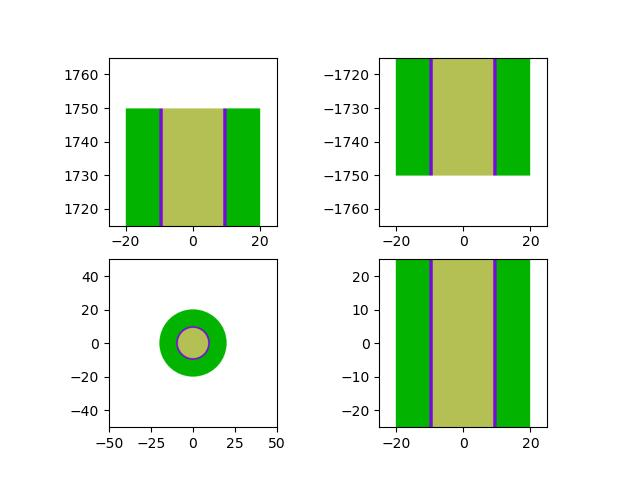
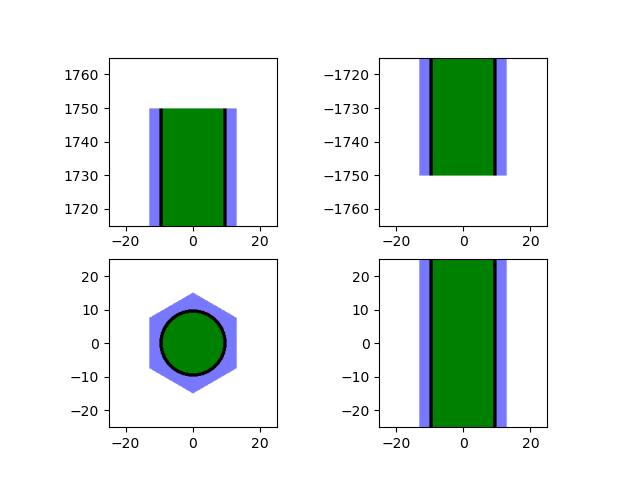
plotting

diff --git a/main.py b/main.py
@@ -5,52 +5,74 @@ openmc.config['cross_sections'] = '/home/main/cross_section_libs/jeff32/jeff-3.3
 import matplotlib.pyplot as plt
 import neutronics_material_maker as nmm
 
-#Materials
+# Materials
 fuel_mat = nmm.Material.from_library(name='Uranium Oxide').openmc_material
 water_mat = nmm.Material.from_library(name='Water, Liquid').openmc_material
 cladding_mat = nmm.Material.from_library(name='Zircaloy-2').openmc_material
-materials = openmc.Materials([fuel_mat,water_mat,cladding_mat])
+materials = openmc.Materials([fuel_mat, water_mat, cladding_mat])
 
 cladding_surf = openmc.ZCylinder(r=10)
 fuel_surf = openmc.ZCylinder(r=9)
-water_surf = openmc.ZCylinder(r=20)
-top_surf = openmc.ZPlane(z0=3500/2)
-bottom_surf = openmc.ZPlane(z0=-3500/2)
+water_surf = openmc.hexagonal_prism(orientation='y', edge_length=15)
 
-top_surf.boundary_type='vacuum'
-bottom_surf.boundary_type='vacuum'
-water_surf.boundary_type='vacuum'
+top_surf = openmc.ZPlane(z0=3500 / 2)
+bottom_surf = openmc.ZPlane(z0=-3500 / 2)
 
-#Geometry
-fuel_cell = openmc.Cell(fill=fuel_mat, region=-fuel_surf&+bottom_surf&-top_surf)
-cladding_cell = openmc.Cell(fill=cladding_mat, region=+fuel_surf & -cladding_surf&+bottom_surf&-top_surf)
-water_cell = openmc.Cell(fill=fuel_mat, region=+cladding_surf & -water_surf& +bottom_surf&-top_surf)
-outside_cell = openmc.Cell(region=+water_surf&+top_surf&-bottom_surf)
+top_surf.boundary_type = 'vacuum'
+bottom_surf.boundary_type = 'vacuum'
+water_surf.boundary_type = 'transmission'
+
+# Geometry
+fuel_cell = openmc.Cell(fill=fuel_mat, region=-fuel_surf & +bottom_surf & -top_surf)
+cladding_cell = openmc.Cell(fill=cladding_mat, region=+fuel_surf & -cladding_surf & +bottom_surf & -top_surf)
+water_cell = openmc.Cell(fill=water_mat, region=+cladding_surf & water_surf & +bottom_surf & -top_surf)
+outside_cell = openmc.Cell(region=water_surf & +top_surf & -bottom_surf)
 
 universe = openmc.Universe(cells=[fuel_cell, cladding_cell, water_cell, outside_cell])
-fig, ax = plt.subplots(2,2)
-
-universe.plot(width=(50, 50),pixels=(250,250),basis='xz', origin=(0,0,3500/2-10), axes=ax[0][0])
-universe.plot(width=(50, 50),pixels=(250,250),basis='xz', origin=(0,0,0), axes=ax[1][1])
-universe.plot(width=(50, 50),pixels=(250,250),basis='xz', origin=(0,0,-3500/2+10), axes=ax[0][1])
-universe.plot(width=(100, 100),pixels=(500,500),basis='xy', origin=(0,0,0), axes=ax[1][0])
-plt.savefig('plots/geometry.jpg')
-
 geometry = openmc.Geometry(universe)
 
-#Settings
+# Plotting by universe...
+colors = {water_mat: (120, 120, 255), cladding_mat: 'black', fuel_mat: 'green'}
+color_data = dict(color_by='material', colors=colors)
+
+fig, ax = plt.subplots(2, 2)
+
+universe.plot(width=(50, 50), pixels=(250, 250), basis='xz', **color_data, origin=(0, 0, 3500 / 2 - 10), axes=ax[0][0])
+universe.plot(width=(50, 50), pixels=(250, 250), basis='xz', **color_data, origin=(0, 0, 0), axes=ax[1][1])
+universe.plot(width=(50, 50), pixels=(250, 250), basis='xz', **color_data, origin=(0, 0, -3500 / 2 + 10), axes=ax[0][1])
+universe.plot(width=(50, 50), pixels=(250, 250), basis='xy', **color_data, origin=(0, 0, 0), axes=ax[1][0])
+plt.savefig('plots/geometry.jpg')
+
+# ...and by openmc.Plots
+plots = [openmc.Plot(), openmc.Plot(), openmc.Plot(), openmc.Plot(), ]
+for i in range(4):
+    # plots[i].id=(i+1)*111
+    plots[i].width = (50, 50)
+    plots[i].pixels = (250, 250)
+    plots[i].basis = 'xz'
+    plots[i].color_by = 'material'
+    plots[i].colors = colors
+plots[0].origin = (0, 0, 3500 / 2 - 10)
+plots[2].origin = (0, 0, -3500 / 2 - 10)
+plots[-1].basis = 'xy'
+
+plots = openmc.Plots(plots)
+plots.export_to_xml(path='plots.xml')
+openmc.plot_geometry()
+
+# Settings
 setting = openmc.Settings()
 setting.batches = 100
 setting.inactive = 10
-setting.particles = 1000
+setting.particles = 5000
 
-uniform_dist = openmc.stats.Box([-10,-10,-3500/2],[10,10,3500/2], only_fissionable=True)
+uniform_dist = openmc.stats.Box([-10, -10, -3500 / 2], [10, 10, 3500 / 2], only_fissionable=True)
 setting.source = openmc.source.Source(space=uniform_dist)
 
-#XML export
+# XML export
 materials.export_to_xml('xmls/materials.xml')
 geometry.export_to_xml('xmls/geometry.xml')
 setting.export_to_xml('xmls/setting.xml')
 
-#RUN
+# RUN
 openmc.run()
